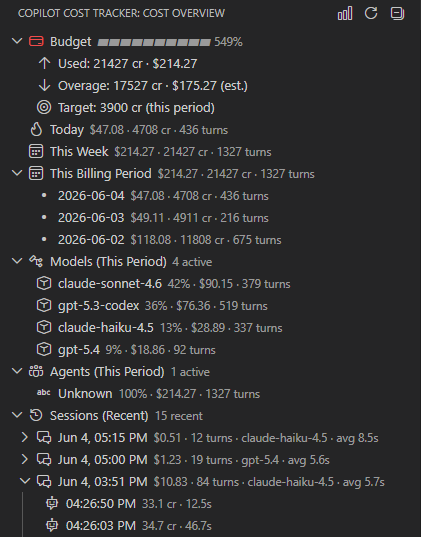
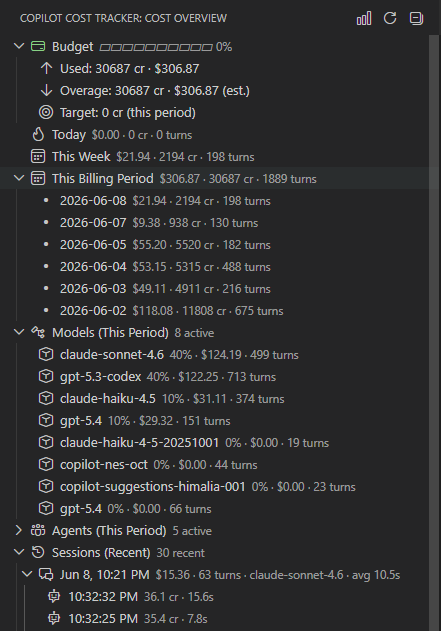
readme update

diff --git a/README.md b/README.md
@@ -1,6 +1,6 @@
 # Copilot Cost Tracker
 
-[![Version](https://img.shields.io/badge/version-0.3.1-blue.svg)](https://github.com/Hoxlegion/copilot-cost-tracker-vsc/releases)
+[![Version](https://img.shields.io/badge/version-0.4.0-blue.svg)](https://github.com/Hoxlegion/copilot-cost-tracker-vsc/releases)
 [![License](https://img.shields.io/badge/license-MIT-green.svg)](LICENSE)
 [![VS Code](https://img.shields.io/badge/VS%20Code-%5E1.85.0-blue.svg)](https://code.visualstudio.com/)
 
@@ -72,7 +72,7 @@ Hierarchical breakdown: budget → period → models → sessions.
 
 ### Dashboard (6-tab analytics)
 Quick overview, Sessions list, model/token analytics, and curated Insights with discovery views.
-![6-tab Chart.js dashboard](media/MainDashboard.png)
+![6-tab Chart.js dashboard](media/DashboardModels.png)
 
 Includes global date range filters, sorting, and detailed breakdowns.
 
@@ -104,7 +104,7 @@ If VS Code policy/settings scope blocks automatic updates, set it manually.
 
 ### From VSIX (Manual)
 ```bash
-code --install-extension copilot-cost-tracker-0.3.1.vsix
+code --install-extension copilot-cost-tracker-0.4.0.vsix
 ```
 
 ### From Source
@@ -113,7 +113,7 @@ git clone https://github.com/Hoxlegion/copilot-cost-tracker-vsc.git
 cd copilot-cost-tracker
 npm install
 npm run package
-code --install-extension copilot-cost-tracker-0.3.1.vsix
+code --install-extension copilot-cost-tracker-0.4.0.vsix
 ```
 
 ---
@@ -178,10 +178,11 @@ Accessible via the Command Palette (`Ctrl+Shift+P`) under the **Copilot Cost Tra
 ### Status Bar
 Displays at the bottom of VS Code:
 ```
-$(credit-card)  +2.3 | 42.5 cr
+$(credit-card)  +2.3 | 42.5 cr | 35K
 ```
 - **`+2.3`** — Credits consumed in current session
 - **`42.5 cr`** — Total credits this billing period
+- **`Context: 35K tokens`** — Tokens used in current session
 - Color-coded: yellow at 75%, red at 90%, based on budget
 
 ### Cost Overview Tree
@@ -261,8 +262,6 @@ Define custom rates for unlisted models:
 }
 ```
 
-For exact built-in rates, see the source table in `src/pricing/defaultPricing.ts`.
-
 ---
 
 ## Architecture
@@ -302,6 +301,7 @@ npm run build          # Development build with source maps
 npm run package        # Create .vsix file for distribution
 npm test               # Run unit tests (vitest)
 npm run test:watch     # Watch mode
+npm run deploy:local   # Builds and installs to local VS Code
 ```
 
 ### Project Structure